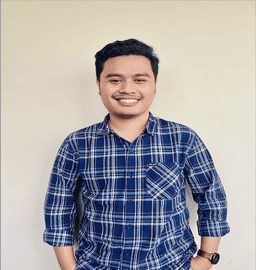
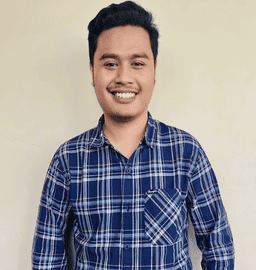
update photo organizer

diff --git a/content/organizer/akhliqa.md b/content/organizer/akhliqa.md
@@ -3,7 +3,7 @@ title : "Akhliqa Zahira A.P."
 page_header_bg : "images/background/page-title-bg.jpg"
 date: 2020-03-14T15:40:24+06:00
 designation: "Universitas Gadjah Mada"
-image: "images/organizers/akhliqa.jpg"
+image: "images/organizers/akhliqa.png"
 description : "Organizer OpenInfra Days Indonesia 2025"
 draft : false
 social:

diff --git a/content/organizer/diana.md b/content/organizer/diana.md
@@ -3,7 +3,7 @@ title : "Diana Zuniarti"
 page_header_bg : "images/background/page-title-bg.jpg"
 date: 2020-03-14T15:40:24+06:00
 designation: "OpenInfra Indonesia User Group"
-image: "images/organizers/diana.jpg"
+image: "images/organizers/dianaz.png"
 description : "Organizer OpenInfra Indonesia User Group"
 draft : false
 social:

diff --git a/content/organizer/hidayat.md b/content/organizer/hidayat.md
@@ -3,7 +3,7 @@ title : "Muhammad Haikal H."
 page_header_bg : "images/background/page-title-bg.jpg"
 date: 2020-03-14T15:40:24+06:00
 designation: "Universitas Gadjah Mada"
-image: "images/organizers/hidayat.jpg"
+image: "images/organizers/hidayat.png"
 description : "Organizer OpenInfra Days Indonesia 2025"
 draft : false
 social:

diff --git a/content/organizer/arrizal.md b/content/organizer/arrizal.md
@@ -3,7 +3,7 @@ title : "Arrizal Rizki Y."
 page_header_bg : "images/background/page-title-bg.jpg"
 date: 2020-03-14T15:40:24+06:00
 designation: "Universitas Gadjah Mada"
-image: "images/organizers/arrizal.jpg"
+image: "images/organizers/arrizal.png"
 description : "Organizer OpenInfra Days Indonesia 2025"
 draft : false
 social:

diff --git a/content/organizer/balian.md b/content/organizer/balian.md
@@ -3,7 +3,7 @@ title : "Balian Haidar R.D."
 page_header_bg : "images/background/page-title-bg.jpg"
 date: 2020-03-14T15:40:24+06:00
 designation: "Universitas Gadjah Mada"
-image: "images/organizers/balian.jpg"
+image: "images/organizers/balian.png"
 description : "Organizer OpenInfra Days Indonesia 2025"
 draft : false
 social:

diff --git a/content/organizer/faisal.md b/content/organizer/faisal.md
@@ -3,7 +3,7 @@ title : "Muhammad Faisal A."
 page_header_bg : "images/background/page-title-bg.jpg"
 date: 2020-03-14T15:40:24+06:00
 designation: "Universitas Gadjah Mada"
-image: "images/organizers/faisal.jpg"
+image: "images/organizers/faisal.png"
 description : "Organizer OpenInfra Days Indonesia 2025"
 draft : false
 social:

diff --git a/content/organizer/igede.md b/content/organizer/igede.md
@@ -3,7 +3,7 @@ title : "I Gede Rizal Maulana"
 page_header_bg : "images/background/page-title-bg.jpg"
 date: 2020-03-14T15:40:24+06:00
 designation: "Universitas Gadjah Mada"
-image: "images/organizers/igede.jpg"
+image: "images/organizers/igede.png"
 description : "Organizer OpenInfra Days Indonesia 2025"
 draft : false
 social:

diff --git a/content/organizer/devara.md b/content/organizer/devara.md
@@ -3,7 +3,7 @@ title : "Devara Aprilia N."
 page_header_bg : "images/background/page-title-bg.jpg"
 date: 2020-03-14T15:40:24+06:00
 designation: "Universitas Gadjah Mada"
-image: "images/organizers/devara.jpg"
+image: "images/organizers/devara.png"
 description : "Organizer OpenInfra Days Indonesia 2025"
 draft : false
 social:

diff --git a/content/organizer/kareen.md b/content/organizer/kareen.md
@@ -3,7 +3,7 @@ title : "Kareen Atanja S."
 page_header_bg : "images/background/page-title-bg.jpg"
 date: 2020-03-14T15:40:24+06:00
 designation: "Universitas Gadjah Mada"
-image: "images/organizers/kareen.jpg"
+image: "images/organizers/kareen.png"
 description : "Organizer OpenInfra Days Indonesia 2025"
 draft : false
 social:

diff --git a/content/organizer/auzan.md b/content/organizer/auzan.md
@@ -3,7 +3,7 @@ title : "Auzan Darmawan I."
 page_header_bg : "images/background/page-title-bg.jpg"
 date: 2020-03-14T15:40:24+06:00
 designation: "Universitas Gadjah Mada"
-image: "images/organizers/auzan.jpg"
+image: "images/organizers/auzan.png"
 description : "Organizer OpenInfra Days Indonesia 2025"
 draft : false
 social:

diff --git a/content/organizer/hilmi.md b/content/organizer/hilmi.md
@@ -3,7 +3,7 @@ title : "Muhamamd Hilmi N."
 page_header_bg : "images/background/page-title-bg.jpg"
 date: 2020-03-14T15:40:24+06:00
 designation: "Universitas Gadjah Mada"
-image: "images/organizers/hilmi.JPG"
+image: "images/organizers/hilmi.png"
 description : "Organizer OpenInfra Days Indonesia 2025"
 draft : false
 social:

diff --git a/content/organizer/maul.md b/content/organizer/maul.md
@@ -3,7 +3,7 @@ title : "Maullana Hidayanto"
 page_header_bg : "images/background/page-title-bg.jpg"
 date: 2020-03-14T15:40:24+06:00
 designation: "Universitas Gadjah Mada"
-image: "images/organizers/maul.jpg"
+image: "images/organizers/maul.png"
 description : "Organizer OpenInfra Days Indonesia 2025"
 draft : false
 social:
